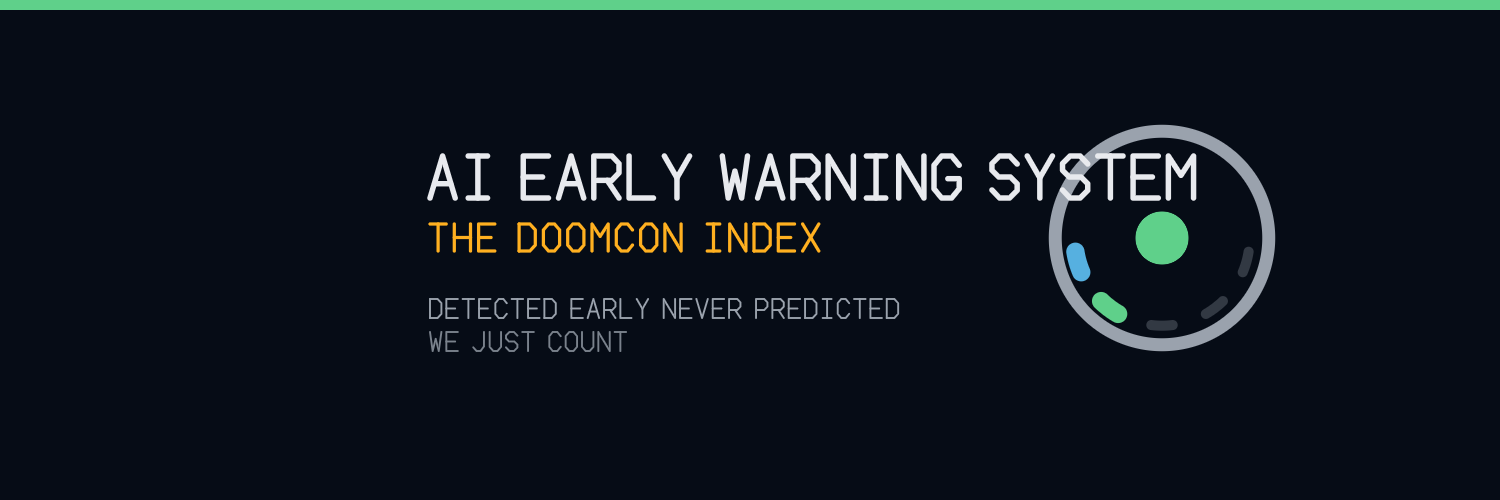
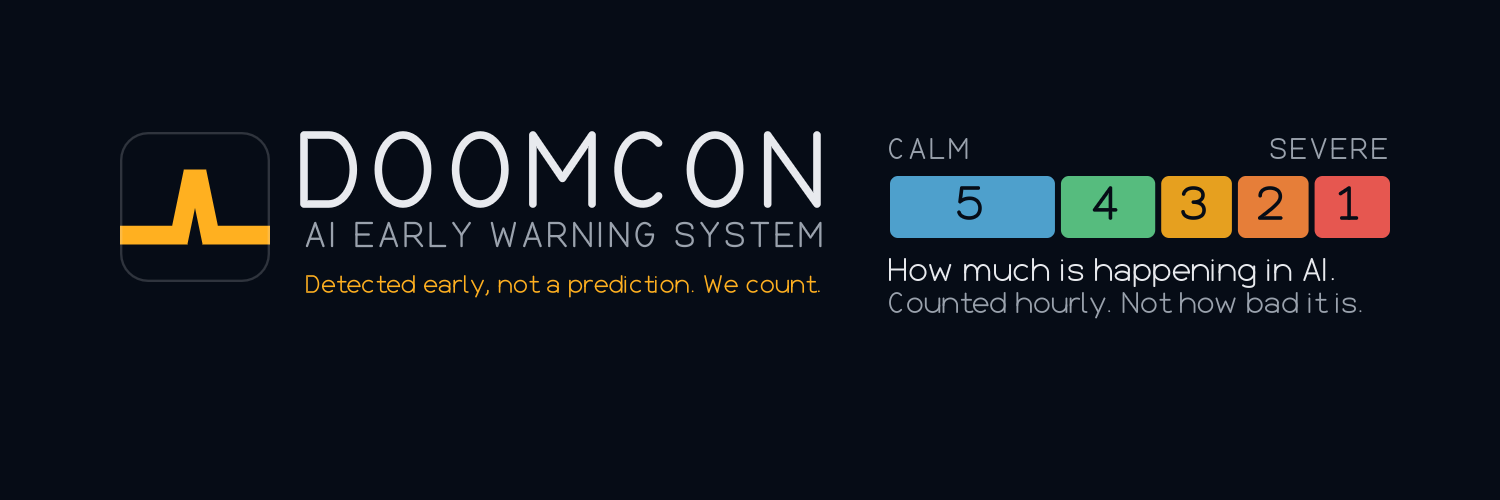
The X profile assets carry the current brand; source health gets a shape
THE ACCOUNT'S OWN FACE WAS THE ONE PLACE THE BRAND WAS WRONG. The two files
in assets/brand/ were drawn by hand in the first week and never regenerated.
Both still showed the retired dial logo, not the sentinel mark, and the header
printed "DETECTED EARLY NEVER PREDICTED / WE JUST COUNT" - the tagline
brand.mjs replaced because "predicted" fails the site's own post pre-flight.

site/brand-assets.mjs generates both now, from the primitives the share cards
and the favicon already use: the mark is the sentinel wire, and the tagline
and publication line are read from brand.mjs at run time, so the next wording
change is one re-run and nothing is typed twice. Every header line is fitted
by measurement; the first render set the tagline by eye and it ran 215px into
the column beside it. Same bytes on every run.

They are static, so they claim no reading: the mark is set at level 3, whose
heat colour is the brand accent, and the header draws the five-band scale with
no band singled out and its two ends named CALM and SEVERE - the one thing a
stranger needs before any reading makes sense.

SOURCE HEALTH. The homepage said "4 live, 1 stale, 9 awaiting a baseline, of
14 sources" as a sentence. It now also draws the fourteen: one cell per
source, grouped by state. State is carried by shape before colour - solid for
live, half-filled for stale, an empty dashed outline for awaiting a baseline
(it answered; there is nothing to fill it against), struck through for dark -
[…]

diff --git a/assets/brand/README.md b/assets/brand/README.md
@@ -7,6 +7,18 @@ Distribution artefacts — for X, press, decks. **Not** the on-site marks.
 | `x-profile.png` | 400×400 | X profile picture |
 | `x-header.png` | 1500×500 | X header |
 
+**Generated, not drawn.** `node site/brand-assets.mjs` writes both from the
+same primitives as the share cards and the favicon: the sentinel mark, and
+`brand.TAGLINE` / `brand.PUBLICATION` read at run time. Until 2026-10-03 these
+were hand-made files carrying the retired dial logo and the retired tagline
+("never predicted", which fails the post pre-flight). Change the tagline in
+`site/brand.mjs`, re-run the script, upload the two files to X by hand — X
+blocks automated profile edits.
+
+Both are static, so neither claims a reading: the mark is set at level 3,
+whose heat colour is the brand accent, and the header draws the five-band scale
+with no band singled out.
+
 ## These are deliberately NOT in `assets/logos/`
 
 `assets/logos/` overrides what the site renders. Everything there replaces a
